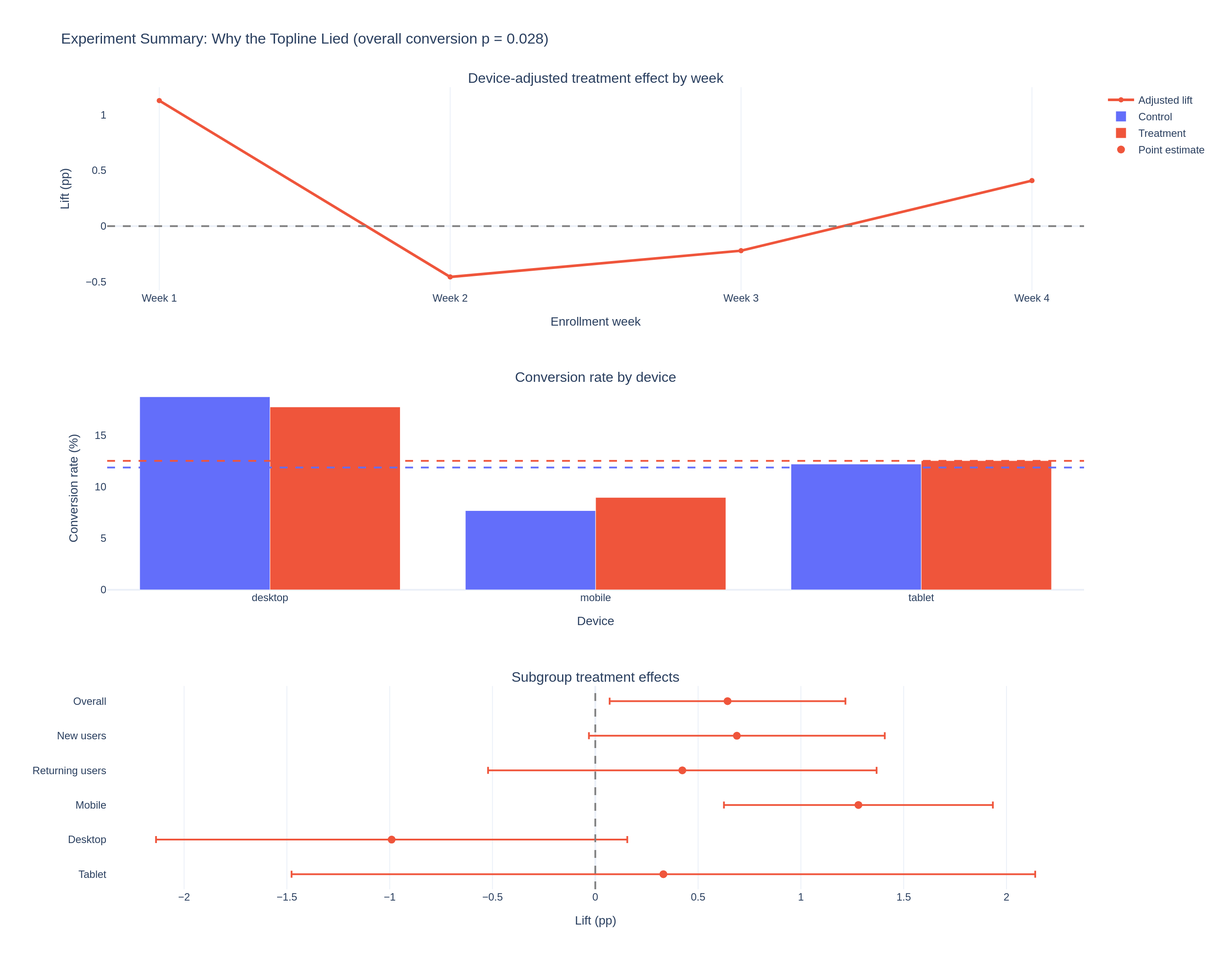
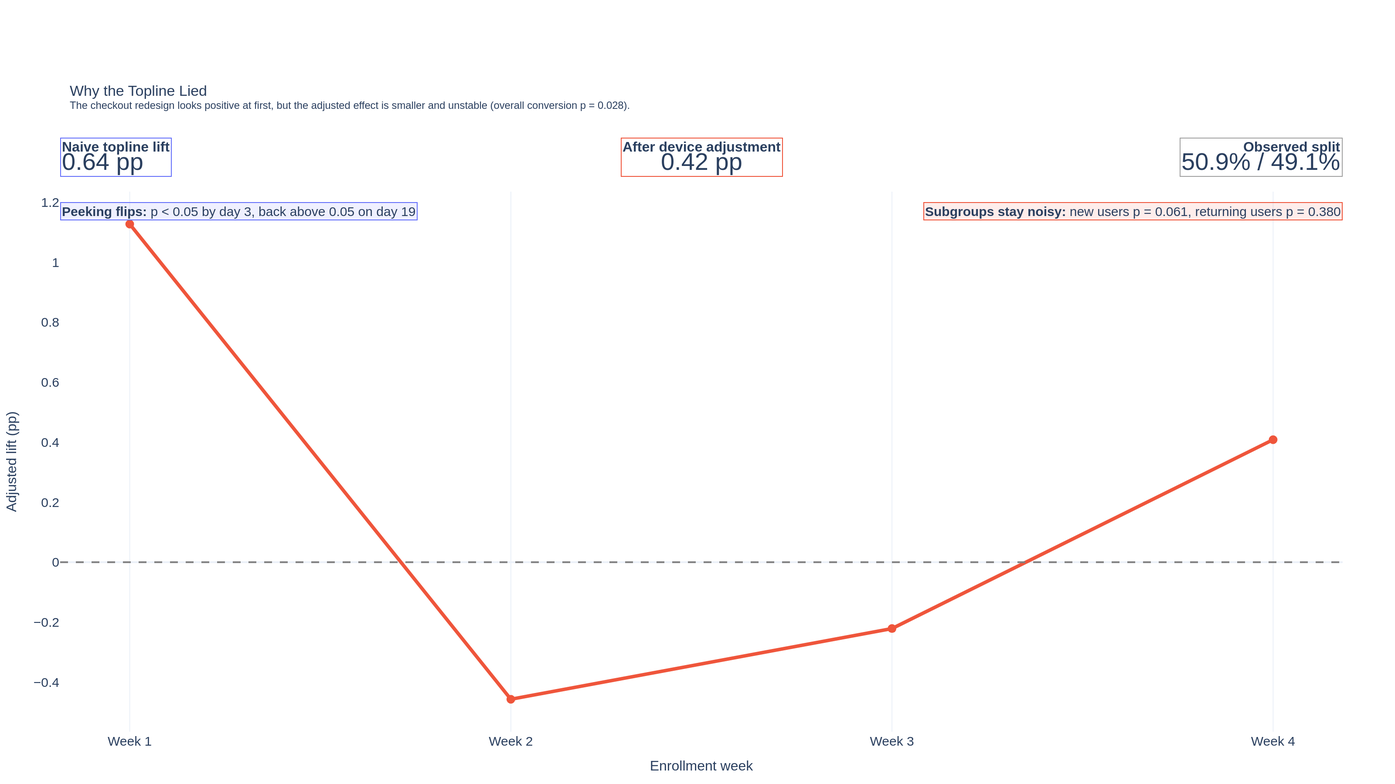
Simplify README summary figure

diff --git a/reports/experiment_summary.html b/reports/experiment_summary.html
@@ -2,6 +2,6 @@
 <head><meta charset="utf-8" /></head>
 <body>
     <div>                        <script>window.PlotlyConfig = {MathJaxConfig: 'local'};</script>
-        <script charset="utf-8" src="https://cdn.plot.ly/plotly-3.4.0.min.js" integrity="sha256-KEmPoupLpFyGMyGAiOsiNDbKDKAvxXAn/W+oQa0ZAfk=" crossorigin="anonymous"></script>                <div id="8b0fd6c5-90b9-4708-8724-07882c960945" class="plotly-graph-div" style="height:1100px; width:100%;"></div>            <script>                window.PLOTLYENV=window.PLOTLYENV || {};                                if (document.getElementById("8b0fd6c5-90b9-4708-8724-07882c960945")) {                    Plotly.newPlot(                        "8b0fd6c5-90b9-4708-8724-07882c960945",                        [{"line":{"color":"#EF553B","width":3},"mode":"lines+markers","name":"Adjusted lift","x":["Week 1","Week 2","Week 3","Week 4"],"y":{"dtype":"f8","bdata":"Pt+VNKoI8j9ZohgtsT7dv6qI\u002fn2YT8y\u002fFQgJtLgi2j8="},"type":"scatter","xaxis":"x","yaxis":"y"},{"marker":{"color":"#636EFA"},"name":"Control","x":["desktop","mobile","tablet"],"y":{"dtype":"f8","bdata":"BDS0iwi5MkAXsWhC57geQHkUFejpYihA"},"type":"bar","xaxis":"x2","yaxis":"y2"},{"marker":{"color":"#EF553B"},"name":"Treatment","x":["desktop","mobile","tablet"],"y":{"dtype":"f8","bdata":"GVqRgHq7MUAvuDLzpushQLSpH0F8DClA"},"type":"bar","xaxis":"x2","yaxis":"y2"},{"error_x":{"array":{"dtype":"f8","bdata":"k1i750vv\u002fD88aCKbGFbyP\u002foZRniM7eQ\u002f4w5nMCs87j+7EnDfpAXnP79kcJEtWeI\u002f"},"arrayminus":{"dtype":"f8","bdata":"kli750vv\u002fD88aCKbGFbyP\u002foZRniM7eQ\u002f4w5nMCs87j+8EnDfpAXnP79kcJEtWeI\u002f"},"symmetric":false,"type":"data"},"marker":{"color":"#EF553B","size":9},"mode":"markers","name":"Point estimate","x":{"dtype":"f8","bdata":"XKdSIUsy1T91PVtkwbHvvxr98o+aefQ\u002f3kWBQv8W2z+58bTwBAjmP1fUTLI1leQ\u002f"},"y":["Tablet","Desktop","Mobile","Returning users","New users","Overall"],"type":"scatter","xaxis":"x3","yaxis":"y3"}],                        {"template":{"data":{"barpolar":[{"marker":{"line":{"color":"white","width":0.5},"pattern":{"fillmode":"overlay","size":10,"solidity":0.2}},"type":"barpolar"}],"bar":[{"error_x":{"color":"#2a3f5f"},"error_y":{"color":"#2a3f5f"},"marker":{"line":{"color":"white","width":0.5},"pattern":{"fillmode":"overlay","size":10,"solidity":0.2}},"type":"bar"}],"carpet":[{"aaxis":{"endlinecolor":"#2a3f5f","gridcolor":"#C8D4E3","linecolor":"#C8D4E3","minorgridcolor":"#C8D4E3","startlinecolor":"#2a3f5f"},"baxis":{"endlinecolor":"#2a3f5f","gridcolor":"#C8D4E3","linecolor":"#C8D4E3","minorgridcolor":"#C8D4E3","startlinecolor":"#2a3f5f"},"type":"carpet"}],"choropleth":[{"colorbar":{"outlinewidth":0,"ticks":""},"type":"choropleth"}],"contourcarpet":[{"colorbar":{"outlinewidth":0,"ticks":""},"type":"contourcarpet"}],"contour":[{"colorbar":{"outlinewidth":0,"ticks":""},"colorscale":[[0.0,"#0d0887"],[0.1111111111111111,"#46039f"],[0.2222222222222222,"#7201a8"],[0.3333333333333333,"#9c179e"],[0.4444444444444444,"#bd3786"],[0.5555555555555556,"#d8576b"],[0.6666666666666666,"#ed7953"],[0.7777777777777778,"#fb9f3a"],[0.8888888888888888,"#fdca26"],[1.0,"#f0f921"]],"type":"contour"}],"heatmap":[{"colorbar":{"outlinewidth":0,"ticks":""},"colorscale":[[0.0,"#0d0887"],[0.1111111111111111,"#46039f"],[0.2222222222222222,"#7201a8"],[0.3333333333333333,"#9c179e"],[0.4444444444444444,"#bd3786"],[0.5555555555555556,"#d8576b"],[0.6666666666666666,"#ed7953"],[0.7777777777777778,"#fb9f3a"],[0.8888888888888888,"#fdca26"],[1.0,"#f0f921"]],"type":"heatmap"}],"histogram2dcontour":[{"colorbar":{"outlinewidth":0,"ticks":""},"colorscale":[[0.0,"#0d0887"],[0.1111111111111111,"#46039f"],[0.2222222222222222,"#7201a8"],[0.3333333333333333,"#9c179e"],[0.4444444444444444,"#bd3786"],[0.5555555555555556,"#d8576b"],[0.6666666666666666,"#ed7953"],[0.7777777777777778,"#fb9f3a"],[0.8888888888888888,"#fdca26"],[1.0,"#f0f921"]],"type":"histogram2dcontour"}],"histogram2d":[{"colorbar":{"outlinewidth":0,"ticks":""},"colorscale":[[0.0,"#0d0887"],[0.1111111111111111,"#46039f"],[0.2222222222222222,"#7201a8"],[0.3333333333333333,"#9c179e"],[0.4444444444444444,"#bd3786"],[0.5555555555555556,"#d8576b"],[0.6666666666666666,"#ed7953"],[0.7777777777777778,"#fb9f3a"],[0.8888888888888888,"#fdca26"],[1.0,"#f0f921"]],"type":"histogram2d"}],"histogram":[{"marker":{"pattern":{"fillmode":"overlay","size":10,"solidity":0.2}},"type":"histogram"}],"mesh3d":[{"colorbar":{"outlinewidth":0,"ticks":""},"type":"mesh3d"}],"parcoords":[{"line":{"colorbar":{"outlinewidth":0,"ticks":""}},"type":"parcoords"}],"pie":[{"automargin":true,"type":"pie"}],"scatter3d":[{"line":{"colorbar":{"outlinewidth":0,"ticks":""}},"marker":{"colorbar":{"outlinewidth":0,"ticks":""}},"type":"scatter3d"}],"scattercarpet":[{"marker":{"colorbar":{"outlinewidth":0,"ticks":""}},"type":"scattercarpet"}],"scattergeo":[{"marker":{"colorbar":{"outlinewidth":0,"ticks":""}},"type":"scattergeo"}],"scattergl":[{"marker":{"colorbar":{"outlinewidth":0,"ticks":""}},"type":"scattergl"}],"scattermapbox":[{"marker":{"colorbar":{"outlinewidth":0,"ticks":""}},"type":"scattermapbox"}],"scattermap":[{"marker":{"colorbar":{"outlinewidth":0,"ticks":""}},"type":"scattermap"}],"scatterpolargl":[{"marker":{"colorbar":{"outlinewidth":0,"ticks":""}},"type":"scatterpolargl"}],"scatterpolar":[{"marker":{"colorbar":{"outlinewidth":0,"ticks":""}},"type":"scatterpolar"}],"scatter":[{"fillpattern":{"fillmode":"overlay","size":10,"solidity":0.2},"type":"scatter"}],"scatterternary":[{"marker":{"colorbar":{"outlinewidth":0,"ticks":""}},"type":"scatterternary"}],"surface":[{"colorbar":{"outlinewidth":0,"ticks":""},"colorscale":[[0.0,"#0d0887"],[0.1111111111111111,"#46039f"],[0.2222222222222222,"#7201a8"],[0.3333333333333333,"#9c179e"],[0.4444444444444444,"#bd3786"],[0.5555555555555556,"#d8576b"],[0.6666666666666666,"#ed7953"],[0.7777777777777778,"#fb9f3a"],[0.8888888888888888,"#fdca26"],[1.0,"#f0f921"]],"type":"surface"}],"table":[{"cells":{"fill":{"color":"#EBF0F8"},"line":{"color":"white"}},"header":{"fill":{"color":"#C8D4E3"},"line":{"color":"white"}},"type":"table"}]},"layout":{"annotationdefaults":{"arrowcolor":"#2a3f5f","arrowhead":0,"arrowwidth":1},"autotypenumbers":"strict","coloraxis":{"colorbar":{"outlinewidth":0,"ticks":""}},"colorscale":{"diverging":[[0,"#8e0152"],[0.1,"#c51b7d"],[0.2,"#de77ae"],[0.3,"#f1b6da"],[0.4,"#fde0ef"],[0.5,"#f7f7f7"],[0.6,"#e6f5d0"],[0.7,"#b8e186"],[0.8,"#7fbc41"],[0.9,"#4d9221"],[1,"#276419"]],"sequential":[[0.0,"#0d0887"],[0.1111111111111111,"#46039f"],[0.2222222222222222,"#7201a8"],[0.3333333333333333,"#9c179e"],[0.4444444444444444,"#bd3786"],[0.5555555555555556,"#d8576b"],[0.6666666666666666,"#ed7953"],[0.7777777777777778,"#fb9f3a"],[0.8888888888888888,"#fdca26"],[1.0,"#f0f921"]],"sequentialminus":[[0.0,"#0d0887"],[0.1111111111111111,"#46039f"],[0.2222222222222222,"#7201a8"],[0.3333333333333333,"#9c179e"],[0.4444444444444444,"#bd3786"],[0.5555555555555556,"#d8576b"],[0.6666666666666666,"#ed7953"],[0.7777777777777778,"#fb9f3a"],[0.8888888888888888,"#fdca26"],[1.0,"#f0f921"]]},"colorway":["#636efa","#EF553B","#00cc96","#ab63fa","#FFA15A","#19d3f3","#FF6692","#B6E880","#FF97FF","#FECB52"],"font":{"color":"#2a3f5f"},"geo":{"bgcolor":"white","lakecolor":"white","landcolor":"white","showlakes":true,"showland":true,"subunitcolor":"#C8D4E3"},"hoverlabel":{"align":"left"},"hovermode":"closest","mapbox":{"style":"light"},"paper_bgcolor":"white","plot_bgcolor":"white","polar":{"angularaxis":{"gridcolor":"#EBF0F8","linecolor":"#EBF0F8","ticks":""},"bgcolor":"white","radialaxis":{"gridcolor":"#EBF0F8","linecolor":"#EBF0F8","ticks":""}},"scene":{"xaxis":{"backgroundcolor":"white","gridcolor":"#DFE8F3","gridwidth":2,"linecolor":"#EBF0F8","showbackground":true,"ticks":"","zerolinecolor":"#EBF0F8"},"yaxis":{"backgroundcolor":"white","gridcolor":"#DFE8F3","gridwidth":2,"linecolor":"#EBF0F8","showbackground":true,"ticks":"","zerolinecolor":"#EBF0F8"},"zaxis":{"backgroundcolor":"white","gridcolor":"#DFE8F3","gridwidth":2,"linecolor":"#EBF0F8","showbackground":true,"ticks":"","zerolinecolor":"#EBF0F8"}},"shapedefaults":{"line":{"color":"#2a3f5f"}},"ternary":{"aaxis":{"gridcolor":"#DFE8F3","linecolor":"#A2B1C6","ticks":""},"baxis":{"gridcolor":"#DFE8F3","linecolor":"#A2B1C6","ticks":""},"bgcolor":"white","caxis":{"gridcolor":"#DFE8F3","linecolor":"#A2B1C6","ticks":""}},"title":{"x":0.05},"xaxis":{"automargin":true,"gridcolor":"#EBF0F8","linecolor":"#EBF0F8","ticks":"","title":{"standoff":15},"zerolinecolor":"#EBF0F8","zerolinewidth":2},"yaxis":{"automargin":true,"gridcolor":"#EBF0F8","linecolor":"#EBF0F8","ticks":"","title":{"standoff":15},"zerolinecolor":"#EBF0F8","zerolinewidth":2}}},"xaxis":{"anchor":"y","domain":[0.0,1.0],"title":{"text":"Enrollment week"}},"yaxis":{"anchor":"x","domain":[0.7466666666666667,1.0],"title":{"text":"Lift (pp)"},"showgrid":false},"xaxis2":{"anchor":"y2","domain":[0.0,1.0],"title":{"text":"Device"}},"yaxis2":{"anchor":"x2","domain":[0.37333333333333335,0.6266666666666667],"title":{"text":"Conversion rate (%)"},"showgrid":false},"xaxis3":{"anchor":"y3","domain":[0.0,1.0],"title":{"text":"Lift (pp)"}},"yaxis3":{"anchor":"x3","domain":[0.0,0.25333333333333335],"title":{"text":""},"showgrid":false},"annotations":[{"font":{"size":16},"showarrow":false,"text":"Device-adjusted treatment effect by week","x":0.5,"xanchor":"center","xref":"paper","y":1.0,"yanchor":"bottom","yref":"paper"},{"font":{"size":16},"showarrow":false,"text":"Conversion rate by device","x":0.5,"xanchor":"center","xref":"paper","y":0.6266666666666667,"yanchor":"bottom","yref":"paper"},{"font":{"size":16},"showarrow":false,"text":"Subgroup treatment effects","x":0.5,"xanchor":"center","xref":"paper","y":0.25333333333333335,"yanchor":"bottom","yref":"paper"}],"shapes":[{"line":{"color":"gray","dash":"dash"},"type":"line","x0":0,"x1":1,"xref":"x domain","y0":0,"y1":0,"yref":"y"},{"line":{"color":"#636EFA","dash":"dash"},"type":"line","x0":0,"x1":1,"xref":"x2 domain","y0":11.862681218439485,"y1":11.862681218439485,"yref":"y2"},{"line":{"color":"#EF553B","dash":"dash"},"type":"line","x0":0,"x1":1,"xref":"x2 domain","y0":12.505895299481216,"y1":12.505895299481216,"yref":"y2"},{"line":{"color":"gray","dash":"dash"},"type":"line","x0":0,"x1":0,"xref":"x3","y0":0,"y1":1,"yref":"y3 domain"}],"title":{"text":"Experiment Summary: Why the Topline Lied (overall conversion p = 0.028)"},"height":1100,"barmode":"group"},                        {"responsive": true}                    )                };            </script>        </div>
+        <script charset="utf-8" src="https://cdn.plot.ly/plotly-3.4.0.min.js" integrity="sha256-KEmPoupLpFyGMyGAiOsiNDbKDKAvxXAn/W+oQa0ZAfk=" crossorigin="anonymous"></script>                <div id="c181631b-c536-4105-b1f4-ec8935f57f15" class="plotly-graph-div" style="height:760px; width:100%;"></div>            <script>                window.PLOTLYENV=window.PLOTLYENV || {};                                if (document.getElementById("c181631b-c536-4105-b1f4-ec8935f57f15")) {                    Plotly.newPlot(                        "c181631b-c536-4105-b1f4-ec8935f57f15",                        [{"line":{"color":"#EF553B","width":4},"marker":{"size":10},"mode":"lines+markers","x":["Week 1","Week 2","Week 3","Week 4"],"y":{"dtype":"f8","bdata":"Pt+VNKoI8j9ZohgtsT7dv6qI\u002fn2YT8y\u002fFQgJtLgi2j8="},"type":"scatter"}],                        {"template":{"data":{"barpolar":[{"marker":{"line":{"color":"white","width":0.5},"pattern":{"fillmode":"overlay","size":10,"solidity":0.2}},"type":"barpolar"}],"bar":[{"error_x":{"color":"#2a3f5f"},"error_y":{"color":"#2a3f5f"},"marker":{"line":{"color":"white","width":0.5},"pattern":{"fillmode":"overlay","size":10,"solidity":0.2}},"type":"bar"}],"carpet":[{"aaxis":{"endlinecolor":"#2a3f5f","gridcolor":"#C8D4E3","linecolor":"#C8D4E3","minorgridcolor":"#C8D4E3","startlinecolor":"#2a3f5f"},"baxis":{"endlinecolor":"#2a3f5f","gridcolor":"#C8D4E3","linecolor":"#C8D4E3","minorgridcolor":"#C8D4E3","startlinecolor":"#2a3f5f"},"type":"carpet"}],"choropleth":[{"colorbar":{"outlinewidth":0,"ticks":""},"type":"choropleth"}],"contourcarpet":[{"colorbar":{"outlinewidth":0,"ticks":""},"type":"contourcarpet"}],"contour":[{"colorbar":{"outlinewidth":0,"ticks":""},"colorscale":[[0.0,"#0d0887"],[0.1111111111111111,"#46039f"],[0.2222222222222222,"#7201a8"],[0.3333333333333333,"#9c179e"],[0.4444444444444444,"#bd3786"],[0.5555555555555556,"#d8576b"],[0.6666666666666666,"#ed7953"],[0.7777777777777778,"#fb9f3a"],[0.8888888888888888,"#fdca26"],[1.0,"#f0f921"]],"type":"contour"}],"heatmap":[{"colorbar":{"outlinewidth":0,"ticks":""},"colorscale":[[0.0,"#0d0887"],[0.1111111111111111,"#46039f"],[0.2222222222222222,"#7201a8"],[0.3333333333333333,"#9c179e"],[0.4444444444444444,"#bd3786"],[0.5555555555555556,"#d8576b"],[0.6666666666666666,"#ed7953"],[0.7777777777777778,"#fb9f3a"],[0.8888888888888888,"#fdca26"],[1.0,"#f0f921"]],"type":"heatmap"}],"histogram2dcontour":[{"colorbar":{"outlinewidth":0,"ticks":""},"colorscale":[[0.0,"#0d0887"],[0.1111111111111111,"#46039f"],[0.2222222222222222,"#7201a8"],[0.3333333333333333,"#9c179e"],[0.4444444444444444,"#bd3786"],[0.5555555555555556,"#d8576b"],[0.6666666666666666,"#ed7953"],[0.7777777777777778,"#fb9f3a"],[0.8888888888888888,"#fdca26"],[1.0,"#f0f921"]],"type":"histogram2dcontour"}],"histogram2d":[{"colorbar":{"outlinewidth":0,"ticks":""},"colorscale":[[0.0,"#0d0887"],[0.1111111111111111,"#46039f"],[0.2222222222222222,"#7201a8"],[0.3333333333333333,"#9c179e"],[0.4444444444444444,"#bd3786"],[0.5555555555555556,"#d8576b"],[0.6666666666666666,"#ed7953"],[0.7777777777777778,"#fb9f3a"],[0.8888888888888888,"#fdca26"],[1.0,"#f0f921"]],"type":"histogram2d"}],"histogram":[{"marker":{"pattern":{"fillmode":"overlay","size":10,"solidity":0.2}},"type":"histogram"}],"mesh3d":[{"colorbar":{"outlinewidth":0,"ticks":""},"type":"mesh3d"}],"parcoords":[{"line":{"colorbar":{"outlinewidth":0,"ticks":""}},"type":"parcoords"}],"pie":[{"automargin":true,"type":"pie"}],"scatter3d":[{"line":{"colorbar":{"outlinewidth":0,"ticks":""}},"marker":{"colorbar":{"outlinewidth":0,"ticks":""}},"type":"scatter3d"}],"scattercarpet":[{"marker":{"colorbar":{"outlinewidth":0,"ticks":""}},"type":"scattercarpet"}],"scattergeo":[{"marker":{"colorbar":{"outlinewidth":0,"ticks":""}},"type":"scattergeo"}],"scattergl":[{"marker":{"colorbar":{"outlinewidth":0,"ticks":""}},"type":"scattergl"}],"scattermapbox":[{"marker":{"colorbar":{"outlinewidth":0,"ticks":""}},"type":"scattermapbox"}],"scattermap":[{"marker":{"colorbar":{"outlinewidth":0,"ticks":""}},"type":"scattermap"}],"scatterpolargl":[{"marker":{"colorbar":{"outlinewidth":0,"ticks":""}},"type":"scatterpolargl"}],"scatterpolar":[{"marker":{"colorbar":{"outlinewidth":0,"ticks":""}},"type":"scatterpolar"}],"scatter":[{"fillpattern":{"fillmode":"overlay","size":10,"solidity":0.2},"type":"scatter"}],"scatterternary":[{"marker":{"colorbar":{"outlinewidth":0,"ticks":""}},"type":"scatterternary"}],"surface":[{"colorbar":{"outlinewidth":0,"ticks":""},"colorscale":[[0.0,"#0d0887"],[0.1111111111111111,"#46039f"],[0.2222222222222222,"#7201a8"],[0.3333333333333333,"#9c179e"],[0.4444444444444444,"#bd3786"],[0.5555555555555556,"#d8576b"],[0.6666666666666666,"#ed7953"],[0.7777777777777778,"#fb9f3a"],[0.8888888888888888,"#fdca26"],[1.0,"#f0f921"]],"type":"surface"}],"table":[{"cells":{"fill":{"color":"#EBF0F8"},"line":{"color":"white"}},"header":{"fill":{"color":"#C8D4E3"},"line":{"color":"white"}},"type":"table"}]},"layout":{"annotationdefaults":{"arrowcolor":"#2a3f5f","arrowhead":0,"arrowwidth":1},"autotypenumbers":"strict","coloraxis":{"colorbar":{"outlinewidth":0,"ticks":""}},"colorscale":{"diverging":[[0,"#8e0152"],[0.1,"#c51b7d"],[0.2,"#de77ae"],[0.3,"#f1b6da"],[0.4,"#fde0ef"],[0.5,"#f7f7f7"],[0.6,"#e6f5d0"],[0.7,"#b8e186"],[0.8,"#7fbc41"],[0.9,"#4d9221"],[1,"#276419"]],"sequential":[[0.0,"#0d0887"],[0.1111111111111111,"#46039f"],[0.2222222222222222,"#7201a8"],[0.3333333333333333,"#9c179e"],[0.4444444444444444,"#bd3786"],[0.5555555555555556,"#d8576b"],[0.6666666666666666,"#ed7953"],[0.7777777777777778,"#fb9f3a"],[0.8888888888888888,"#fdca26"],[1.0,"#f0f921"]],"sequentialminus":[[0.0,"#0d0887"],[0.1111111111111111,"#46039f"],[0.2222222222222222,"#7201a8"],[0.3333333333333333,"#9c179e"],[0.4444444444444444,"#bd3786"],[0.5555555555555556,"#d8576b"],[0.6666666666666666,"#ed7953"],[0.7777777777777778,"#fb9f3a"],[0.8888888888888888,"#fdca26"],[1.0,"#f0f921"]]},"colorway":["#636efa","#EF553B","#00cc96","#ab63fa","#FFA15A","#19d3f3","#FF6692","#B6E880","#FF97FF","#FECB52"],"font":{"color":"#2a3f5f"},"geo":{"bgcolor":"white","lakecolor":"white","landcolor":"white","showlakes":true,"showland":true,"subunitcolor":"#C8D4E3"},"hoverlabel":{"align":"left"},"hovermode":"closest","mapbox":{"style":"light"},"paper_bgcolor":"white","plot_bgcolor":"white","polar":{"angularaxis":{"gridcolor":"#EBF0F8","linecolor":"#EBF0F8","ticks":""},"bgcolor":"white","radialaxis":{"gridcolor":"#EBF0F8","linecolor":"#EBF0F8","ticks":""}},"scene":{"xaxis":{"backgroundcolor":"white","gridcolor":"#DFE8F3","gridwidth":2,"linecolor":"#EBF0F8","showbackground":true,"ticks":"","zerolinecolor":"#EBF0F8"},"yaxis":{"backgroundcolor":"white","gridcolor":"#DFE8F3","gridwidth":2,"linecolor":"#EBF0F8","showbackground":true,"ticks":"","zerolinecolor":"#EBF0F8"},"zaxis":{"backgroundcolor":"white","gridcolor":"#DFE8F3","gridwidth":2,"linecolor":"#EBF0F8","showbackground":true,"ticks":"","zerolinecolor":"#EBF0F8"}},"shapedefaults":{"line":{"color":"#2a3f5f"}},"ternary":{"aaxis":{"gridcolor":"#DFE8F3","linecolor":"#A2B1C6","ticks":""},"baxis":{"gridcolor":"#DFE8F3","linecolor":"#A2B1C6","ticks":""},"bgcolor":"white","caxis":{"gridcolor":"#DFE8F3","linecolor":"#A2B1C6","ticks":""}},"title":{"x":0.05},"xaxis":{"automargin":true,"gridcolor":"#EBF0F8","linecolor":"#EBF0F8","ticks":"","title":{"standoff":15},"zerolinecolor":"#EBF0F8","zerolinewidth":2},"yaxis":{"automargin":true,"gridcolor":"#EBF0F8","linecolor":"#EBF0F8","ticks":"","title":{"standoff":15},"zerolinecolor":"#EBF0F8","zerolinewidth":2}}},"shapes":[{"line":{"color":"gray","dash":"dash"},"type":"line","x0":0,"x1":1,"xref":"x domain","y0":0,"y1":0,"yref":"y"}],"annotations":[{"align":"left","bgcolor":"rgba(255, 255, 255, 0.92)","bordercolor":"#636EFA","borderwidth":1,"font":{"size":16},"showarrow":false,"text":"\u003cb\u003eNaive topline lift\u003c\u002fb\u003e\u003cbr\u003e\u003cspan style='font-size:28px'\u003e0.64 pp\u003c\u002fspan\u003e","x":0.0,"xref":"paper","y":1.1,"yref":"paper"},{"align":"center","bgcolor":"rgba(255, 255, 255, 0.92)","bordercolor":"#EF553B","borderwidth":1,"font":{"size":16},"showarrow":false,"text":"\u003cb\u003eAfter device adjustment\u003c\u002fb\u003e\u003cbr\u003e\u003cspan style='font-size:28px'\u003e0.42 pp\u003c\u002fspan\u003e","x":0.5,"xref":"paper","y":1.1,"yref":"paper"},{"align":"right","bgcolor":"rgba(255, 255, 255, 0.92)","bordercolor":"#A0A0A0","borderwidth":1,"font":{"size":16},"showarrow":false,"text":"\u003cb\u003eObserved split\u003c\u002fb\u003e\u003cbr\u003e\u003cspan style='font-size:28px'\u003e50.9% \u002f 49.1%\u003c\u002fspan\u003e","x":1.0,"xref":"paper","y":1.1,"yref":"paper"},{"align":"left","bgcolor":"rgba(99, 110, 250, 0.10)","bordercolor":"#636EFA","borderwidth":1,"font":{"size":15},"showarrow":false,"text":"\u003cb\u003ePeeking flips:\u003c\u002fb\u003e p \u003c 0.05 by day 3, back above 0.05 on day 19","x":0.0,"xref":"paper","y":0.98,"yref":"paper"},{"align":"right","bgcolor":"rgba(239, 85, 59, 0.10)","bordercolor":"#EF553B","borderwidth":1,"font":{"size":15},"showarrow":false,"text":"\u003cb\u003eSubgroups stay noisy:\u003c\u002fb\u003e new users p = 0.061, returning users p = 0.380","x":1.0,"xref":"paper","y":0.98,"yref":"paper"}],"margin":{"t":220,"r":60,"b":60,"l":60},"title":{"text":"Why the Topline Lied\u003cbr\u003e\u003csup\u003eThe checkout redesign looks positive at first, but the adjusted effect is smaller and unstable (overall conversion p = 0.028).\u003c\u002fsup\u003e"},"height":760,"showlegend":false,"xaxis":{"title":{"font":{"size":16},"text":"Enrollment week"},"tickfont":{"size":15}},"yaxis":{"title":{"font":{"size":16},"text":"Adjusted lift (pp)"},"tickfont":{"size":15},"showgrid":false}},                        {"responsive": true}                    )                };            </script>        </div>
 </body>
 </html>

diff --git a/src/build_summary_figure.py b/src/build_summary_figure.py
@@ -6,7 +6,6 @@ from pathlib import Path
 
 import pandas as pd
 import plotly.graph_objects as go
-from plotly.subplots import make_subplots
 from statsmodels.stats.proportion import proportions_ztest
 
 
@@ -68,102 +67,153 @@ def subgroup_effects(df: pd.DataFrame) -> pd.DataFrame:
     return pd.DataFrame(rows)
 
 
+def overall_adjusted_effect(df: pd.DataFrame) -> float:
+    """Compute the overall device-adjusted treatment effect in percentage points."""
+
+    weights = df.loc[df["group"] == "control", "device"].value_counts(normalize=True)
+    rates = df.groupby(["device", "group"])["converted"].mean().unstack()
+    return float(((rates["treatment"] - rates["control"]) * weights).sum() * 100)
+
+
+def peeking_days(df: pd.DataFrame) -> tuple[int, int]:
+    """Return the first significant day and the first later reversion above 0.05."""
+
+    daily_checks = []
+    for day in range(3, 29):
+        subset = df[df["day_enrolled"] <= day]
+        counts = subset.groupby("group")["converted"].sum().reindex(["control", "treatment"])
+        nobs = subset.groupby("group").size().reindex(["control", "treatment"])
+        p_value = float(proportions_ztest(counts, nobs)[1])
+        daily_checks.append((day, p_value))
+
+    first_sig_day = next(day for day, p_value in daily_checks if p_value < 0.05)
+    reversion_day = next(day for day, p_value in daily_checks if day > first_sig_day and p_value > 0.05)
+    return first_sig_day, reversion_day
+
+
 def build_figure(df: pd.DataFrame) -> go.Figure:
-    """Create the stakeholder-ready summary figure."""
+    """Create a simplified summary figure that reads well in the README."""
 
     weekly = adjusted_weekly_effects(df)
-    conversion_by_device = (
-        df.groupby(["device", "group"])["converted"]
-        .mean()
-        .mul(100)
-        .reset_index(name="conversion_rate_pct")
-    )
-    forest = subgroup_effects(df).iloc[::-1]
-
-    overall = df.groupby("group")["converted"].mean().mul(100)
     counts = df.groupby("group")["converted"].sum().reindex(["control", "treatment"])
     nobs = df.groupby("group").size().reindex(["control", "treatment"])
     overall_p = float(proportions_ztest(counts, nobs)[1])
+    topline_lift = float((counts["treatment"] / nobs["treatment"] - counts["control"] / nobs["control"]) * 100)
+    adjusted_lift = overall_adjusted_effect(df)
+    treatment_share = float(nobs["treatment"] / nobs.sum() * 100)
+    control_share = float(nobs["control"] / nobs.sum() * 100)
+    first_sig_day, reversion_day = peeking_days(df)
 
-    fig = make_subplots(
-        rows=3,
-        cols=1,
-        subplot_titles=(
-            "Device-adjusted treatment effect by week",
-            "Conversion rate by device",
-            "Subgroup treatment effects",
-        ),
-        vertical_spacing=0.12,
-    )
+    new_users = df[df["user_type"] == "new"]
+    new_counts = new_users.groupby("group")["converted"].sum().reindex(["control", "treatment"])
+    new_nobs = new_users.groupby("group").size().reindex(["control", "treatment"])
+    new_p = float(proportions_ztest(new_counts, new_nobs)[1])
 
+    returning_users = df[df["user_type"] == "returning"]
+    returning_counts = returning_users.groupby("group")["converted"].sum().reindex(["control", "treatment"])
+    returning_nobs = returning_users.groupby("group").size().reindex(["control", "treatment"])
+    returning_p = float(proportions_ztest(returning_counts, returning_nobs)[1])
+
+    fig = go.Figure()
     fig.add_trace(
         go.Scatter(
             x=weekly["week"],
             y=weekly["adjusted_effect_pp"],
             mode="lines+markers",
-            line={"color": TREATMENT_COLOR, "width": 3},
-            name="Adjusted lift",
+            line={"color": TREATMENT_COLOR, "width": 4},
+            marker={"size": 10},
         ),
-        row=1,
-        col=1,
     )
 
-    fig.add_trace(
-        go.Bar(
-            x=conversion_by_device[conversion_by_device["group"] == "control"]["device"],
-            y=conversion_by_device[conversion_by_device["group"] == "control"]["conversion_rate_pct"],
-            marker_color=CONTROL_COLOR,
-            name="Control",
-        ),
-        row=2,
-        col=1,
+    fig.add_hline(y=0, line_dash="dash", line_color="gray")
+    fig.add_annotation(
+        x=0.00,
+        y=1.10,
+        xref="paper",
+        yref="paper",
+        text=f"<b>Naive topline lift</b><br><span style='font-size:28px'>{topline_lift:.2f} pp</span>",
+        showarrow=False,
+        align="left",
+        bgcolor="rgba(255, 255, 255, 0.92)",
+        bordercolor=CONTROL_COLOR,
+        borderwidth=1,
+        font={"size": 16},
     )
-    fig.add_trace(
-        go.Bar(
-            x=conversion_by_device[conversion_by_device["group"] == "treatment"]["device"],
-            y=conversion_by_device[conversion_by_device["group"] == "treatment"]["conversion_rate_pct"],
-            marker_color=TREATMENT_COLOR,
-            name="Treatment",
-        ),
-        row=2,
-        col=1,
+    fig.add_annotation(
+        x=0.50,
+        y=1.10,
+        xref="paper",
+        yref="paper",
+        text=f"<b>After device adjustment</b><br><span style='font-size:28px'>{adjusted_lift:.2f} pp</span>",
+        showarrow=False,
+        align="center",
+        bgcolor="rgba(255, 255, 255, 0.92)",
+        bordercolor=TREATMENT_COLOR,
+        borderwidth=1,
+        font={"size": 16},
     )
-
-    fig.add_trace(
-        go.Scatter(
-            x=forest["effect_pp"],
-            y=forest["segment"],
-            mode="markers",
-            marker={"color": TREATMENT_COLOR, "size": 9},
-            error_x={
-                "type": "data",
-                "symmetric": False,
-                "array": forest["ci_high_pp"] - forest["effect_pp"],
-                "arrayminus": forest["effect_pp"] - forest["ci_low_pp"],
-            },
-            name="Point estimate",
+    fig.add_annotation(
+        x=1.00,
+        y=1.10,
+        xref="paper",
+        yref="paper",
+        text=(
+            "<b>Observed split</b><br>"
+            f"<span style='font-size:28px'>{treatment_share:.1f}% / {control_share:.1f}%</span>"
         ),
-        row=3,
-        col=1,
+        showarrow=False,
+        align="right",
+        bgcolor="rgba(255, 255, 255, 0.92)",
+        bordercolor="#A0A0A0",
+        borderwidth=1,
+        font={"size": 16},
     )
-
-    fig.add_hline(y=0, line_dash="dash", line_color="gray", row=1, col=1)
-    fig.add_hline(y=float(overall["control"]), line_color=CONTROL_COLOR, line_dash="dash", row=2, col=1)
-    fig.add_hline(y=float(overall["treatment"]), line_color=TREATMENT_COLOR, line_dash="dash", row=2, col=1)
-    fig.add_vline(x=0, line_dash="dash", line_color="gray", row=3, col=1)
+    fig.add_annotation(
+        x=0.00,
+        y=0.98,
+        xref="paper",
+        yref="paper",
+        text=(
+            f"<b>Peeking flips:</b> p < 0.05 by day {first_sig_day}, "
+            f"back above 0.05 on day {reversion_day}"
+        ),
+        showarrow=False,
+        align="left",
+        bgcolor="rgba(99, 110, 250, 0.10)",
+        bordercolor=CONTROL_COLOR,
+        borderwidth=1,
+        font={"size": 15},
+    )
+    fig.add_annotation(
+        x=1.00,
+        y=0.98,
+        xref="paper",
+        yref="paper",
+        text=(
+            f"<b>Subgroups stay noisy:</b> new users p = {new_p:.3f}, "
+            f"returning users p = {returning_p:.3f}"
+        ),
+        showarrow=False,
+        align="right",
+        bgcolor="rgba(239, 85, 59, 0.10)",
+        bordercolor=TREATMENT_COLOR,
+        borderwidth=1,
+        font={"size": 15},
+    )
 
     fig.update_layout(
-        title=f"Experiment Summary: Why the Topline Lied (overall conversion p = {overall_p:.3f})",
-        height=1100,
-        barmode="group",
+        title=(
+            "Why the Topline Lied"
+            f"<br><sup>The checkout redesign looks positive at first, but the adjusted effect is smaller and unstable "
+            f"(overall conversion p = {overall_p:.3f}).</sup>"
+        ),
+        height=760,
         template="plotly_white",
+        margin={"t": 220, "r": 60, "b": 60, "l": 60},
+        showlegend=False,
     )
-    fig.update_xaxes(title_text="Enrollment week", row=1, col=1)
-    fig.update_yaxes(title_text="Lift (pp)", row=1, col=1, showgrid=False)
-    fig.update_xaxes(title_text="Device", row=2, col=1)
-    fig.update_yaxes(title_text="Conversion rate (%)", row=2, col=1, showgrid=False)
-    fig.update_xaxes(title_text="Lift (pp)", row=3, col=1)
-    fig.update_yaxes(title_text="", row=3, col=1, showgrid=False)
+    fig.update_xaxes(title_text="Enrollment week", tickfont={"size": 15}, title_font={"size": 16})
+    fig.update_yaxes(title_text="Adjusted lift (pp)", showgrid=False, tickfont={"size": 15}, title_font={"size": 16})
     return fig
 
 
@@ -177,7 +227,7 @@ def main() -> None:
     df = load_data(project_root)
     fig = build_figure(df)
     fig.write_html(reports_dir / "experiment_summary.html", include_plotlyjs="cdn")
-    fig.write_image(reports_dir / "experiment_summary.png", width=1400, height=1100, scale=2)
+    fig.write_image(reports_dir / "experiment_summary.png", width=1600, height=900, scale=2)
 
 
 if __name__ == "__main__":
